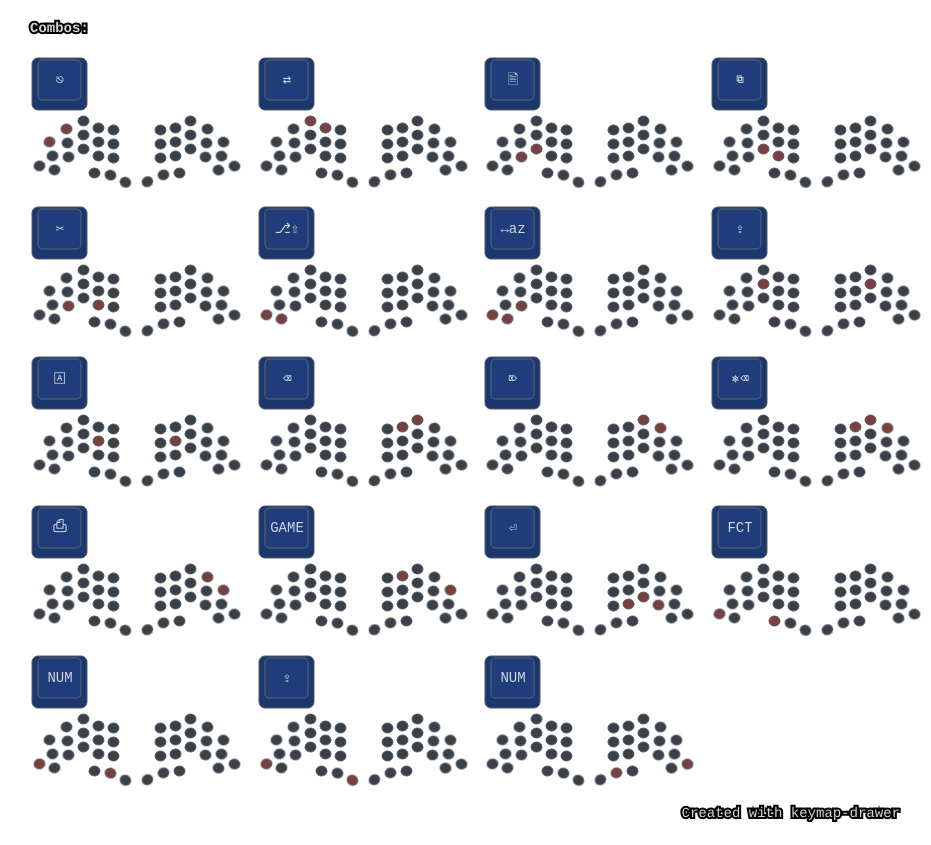
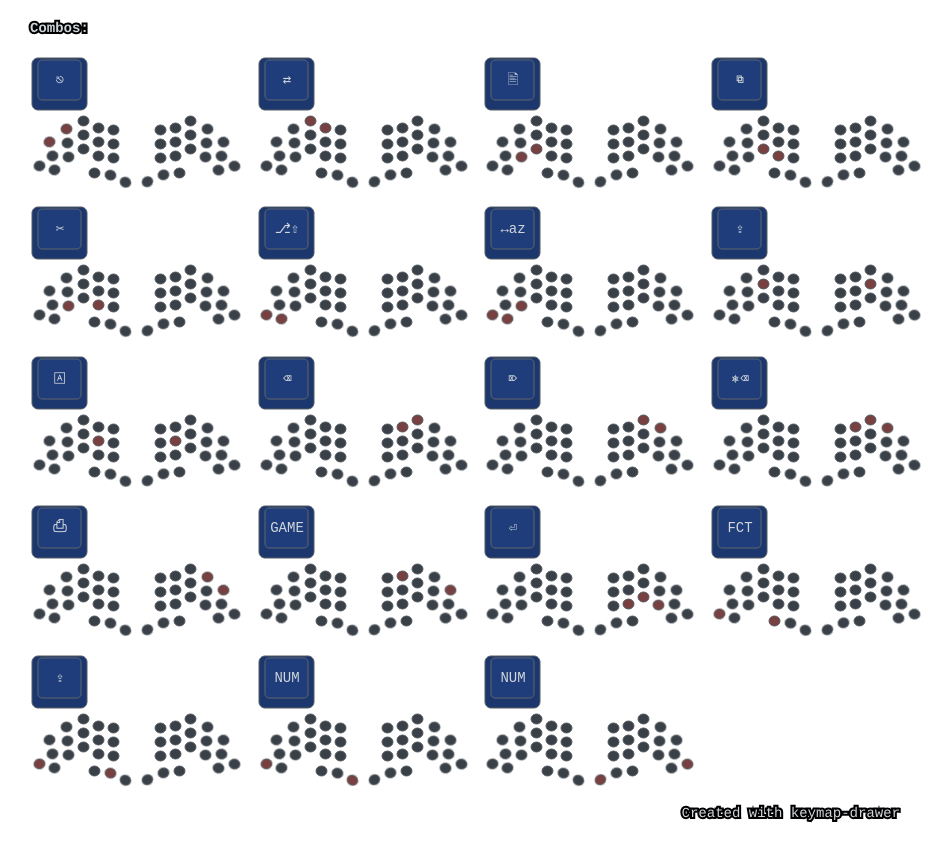
update readme and images - hrm and thumbs Arsenik way

diff --git a/README.md b/README.md
@@ -11,7 +11,7 @@ Key mapping will be (1) transparent Ergo-L and (2) Ergo-L (keyboard pressed) to 
 
 My goal was to get a working keyboard on both Linux and Windows. My first toughts were to use AZERTY legacy for the main letters; and AZERTY alt. for Linux (the most used layout on Linux in France) and ALT+unicode values for Windows, as separate keyboard layers maybe?
 
-Since Windows 11 24H2, Windows is providing "AZERTY AFNOR" layout; most Linux distros are providing it to. The simplier the better: I created a mapping to that layout, which would then work for both systems. It is accessible by the LB 2-3-4 combo.
+Since Windows 11 24H2, Windows is providing "AZERTY AFNOR" layout; most Linux distros are providing it to. The simplier the better: I created a mapping to that layout, which would then work for both systems. It is accessible by the LB 3-4-5 combo.
 
 _*Warning:*_ I do not aim to apply extensively the AFNOR-distributed layout. First of all, this layout is not open, and I do not have access to it. And second of all, my aim is only to provide characters mapping for those included in Ergo-L layout. The dead keys, managed by the OS, could give access to all of AFNOR layout mappings if the OS respect the AFNOR standard; I cannot and will not garanty that. I only comply to the observed behavior without any engineering.
 
@@ -43,14 +43,14 @@ Drawings hereafter are made with [keymap-drawer](https://keymap-drawer.streamlit
 Texts at the bottom of the keys are the result of a hold action, if different.
 
 Left thumb can do, from right to left:
-- on tap: backspace, or delete with shift (symetrical); on hold: shift (which is also on HRM)
-- on tap: enter (return); on hold: temporary activate the num layer (symetrical)
-- on tap: backspace, or delete with shift; on hold: shift (which is also on HRM)
+- on tap: enter (return); on hold: temporary activate the nav num layer (symetrical)
+- on tap: sticky shift; on hold: normal shift
+- on tap: escape; on hold: temporary activate the function layer
 
 Right thumb can do, from left to right:
-- on tap: backspace, or delete with shift (which is also present at the same place on the right thumb); no hold action here, so one can multi-tap backspace by holding (I know, it’s bad)
-- on tap: space, or narrow no-break space with shif (as in Ergo-L layout); on hold: temporary activate the num layer (symetrical)
-- on tap: tab, or right alt (AltGr); on hold: right alt (AltGr) (with AZERTY mapping: here is the real one, not the emulated one; emulated Ergo-L layout AltGr is the SYM layer accessible from HRM)
+- on tap: backspace; on hold: temporary activate the nav num layer (symetrical)
+- on tap: space, or narrow no-break space with shif (as in Ergo-L layout); on hold: AltGr (`ErgolBase`) or temporary activate the SYM layer (`ErgolAz`)
+- on tap: tab
 
 *Note:* the temporary hold actions on the thumbs can be toggled in combo with the extra pinky buttons. Those buttons do control on the left hand and left alt (Alt) on the right hand, without combo.
 
